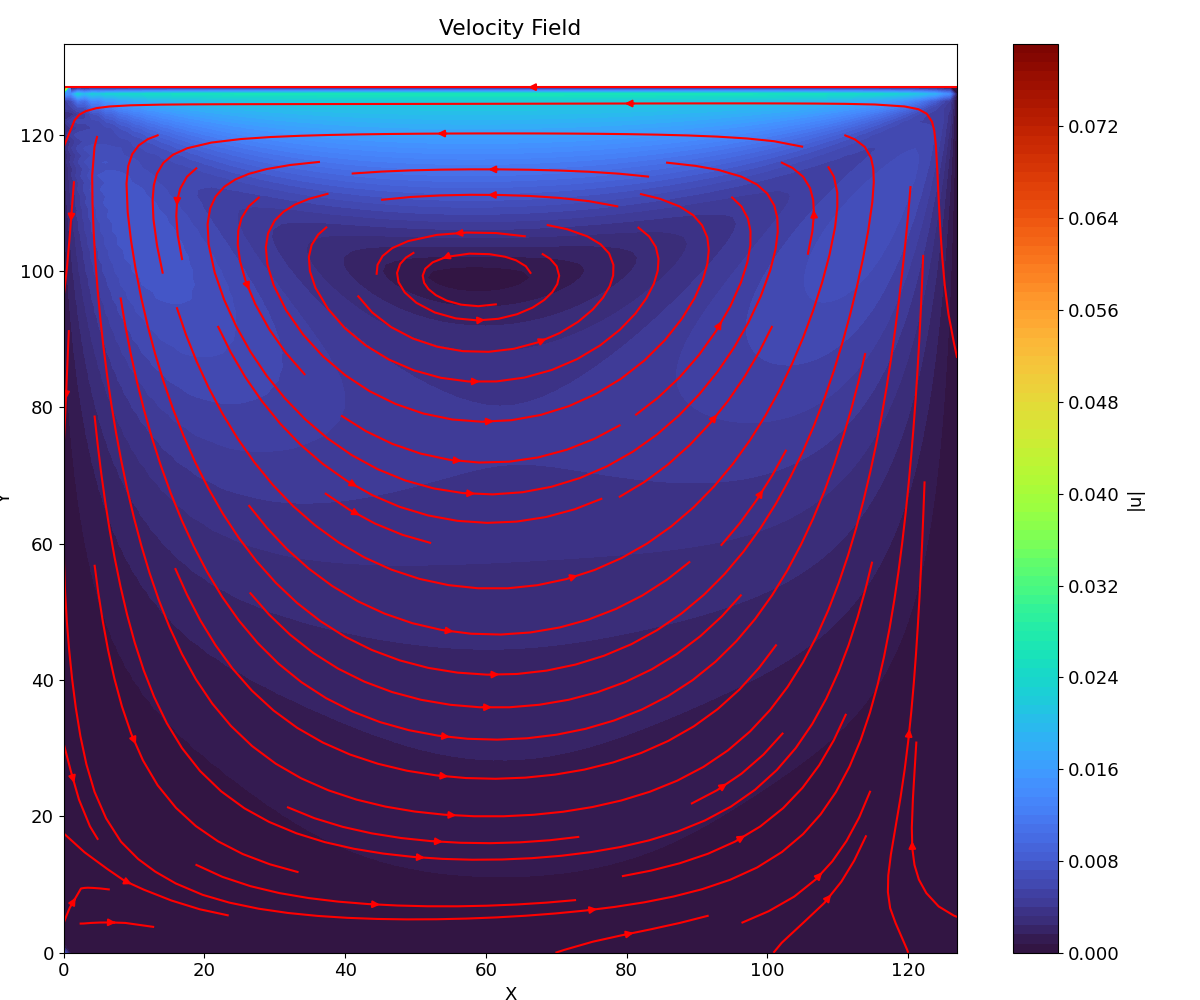
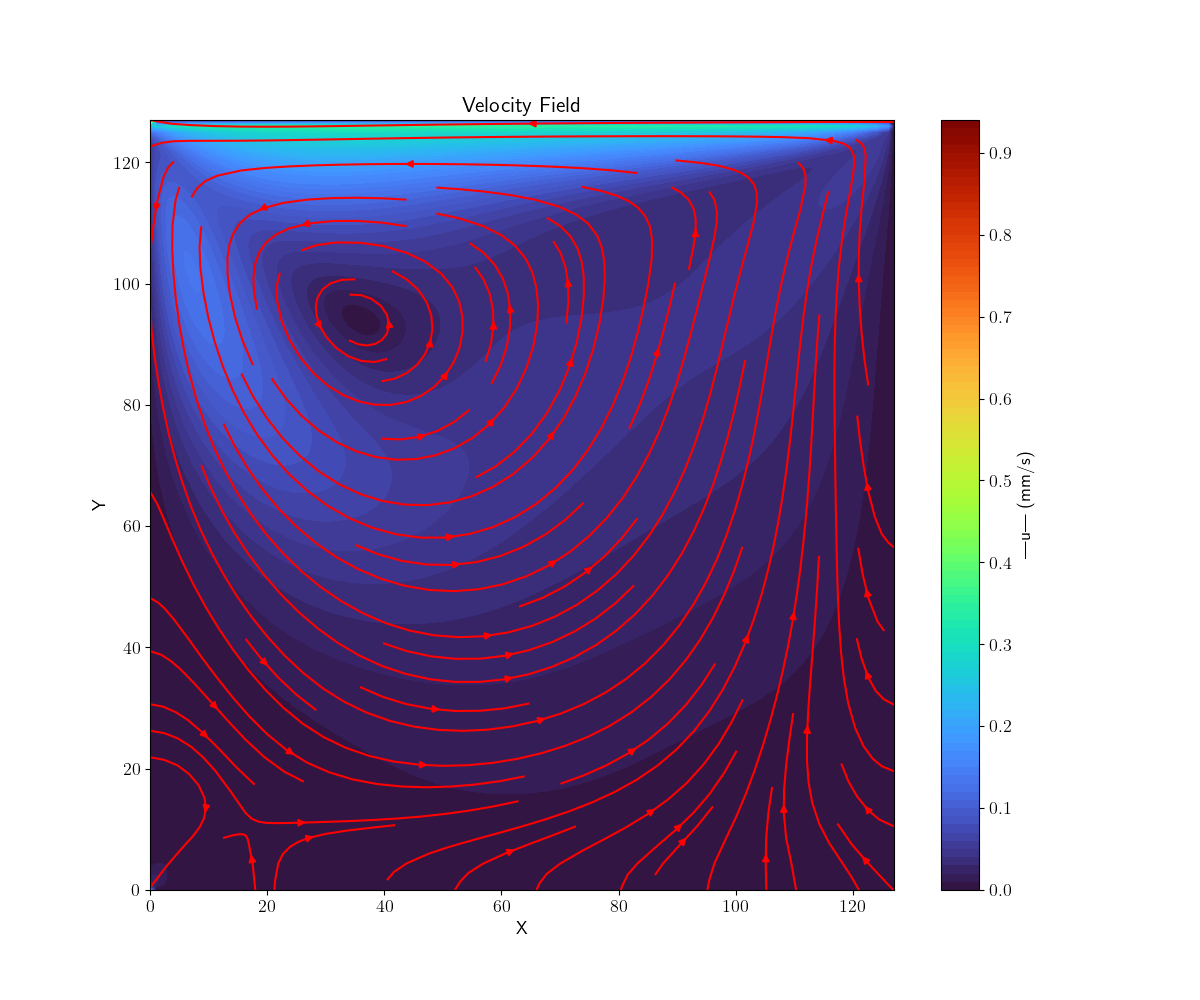
Add files via upload
timescale until steady state parcel velocity at specific point

diff --git a/exc1.py b/exc1.py
@@ -2,18 +2,19 @@ import matplotlib.pyplot as plt
 import numpy as np
 import functions
 import matplotlib.colors
-from matplotlib.colors
-import time
 import sys
+import time
+from matplotlib import rc
 
+rc('text', usetex=True)
 # Set the backend
 matplotlib.use('TkAgg')
 
 width = 128
 length = 128
-max_iter = 5000
+max_iter = 10000
 omega = 1
-lid_vel = 0.15
+lid_vel = 2
 
 boundary = (True, True, False, True) 
 
@@ -26,33 +27,48 @@ f = functions.equilibrium(rho, u)
 
 # calculate corresponding Reynolds number
 Re = functions.calculate_re(omega=omega, length=length, lid_vel=lid_vel)
-pos, orient = functions.initialize_cells(num_cells, domain_size)
 # create a directory to save the figures
 import os
 if not os.path.exists('LB_plankton_figs'):
     os.makedirs('LB_plankton_figs')
 
+t_ini = 0 
+start_time = time.time()
+
+u_at_point = np.zeros(max_iter)
+
 for t in range(max_iter):
     # Streaming step
-    f = functions.streaming(f, width, length, boundary, lid_vel) 
-    
+    f = functions.streaming(f, width, length, boundary, lid_vel)     
     # Collision step
     f, rho, u = functions.collision(f, omega)
-    cell_velocities = functions.interpolate_velocity(u, positions)
-    positions += cell_velocities
-    orientations = functions.update_orientations(orientations, cell_velocities)
+    
+    u_at_point[t] = np.linalg.norm(u[64,64,:])
+
     # Save figure every 500 iterations
     if (t + 1) % 500 == 0:
+        print(f"Iteration {t+1}:")
+        print(f"Time taken: {time.time() - start_time:.2f} seconds")
         fig = plt.figure(figsize=(12, 10))
         plt.streamplot(np.arange(width), np.arange(length), u[:,:, 0].T, u[:,:, 1].T, color='r')
 
  
         plt.contourf(np.arange(width), np.arange(length), np.linalg.norm(u, axis=2).T, cmap='turbo',levels=100)
-        plt.colorbar(label='|u|')
+        plt.colorbar(label='|u| (mm/s)')
         
         plt.title('Velocity Field')
-        plt.tight_layout()
         plt.xlabel('X')
         plt.ylabel('Y')
         plt.savefig(f"LB_plankton_figs/figat_{t+1}.png")
         plt.close()
+
+plt.figure(figsize=(10, 6))
+plt.plot(u_at_point, color='black')
+plt.title('Fluid Speed @(64,64)')
+plt.xlabel('time')
+plt.ylabel('Fluid parcel velocity (mm/s)')
+plt.grid(True)
+plt.xlim([0,max_iter])
+plt.tight_layout()
+plt.savefig(f"LB_plankton_figs/U_Parcel.png")
+plt.show()
